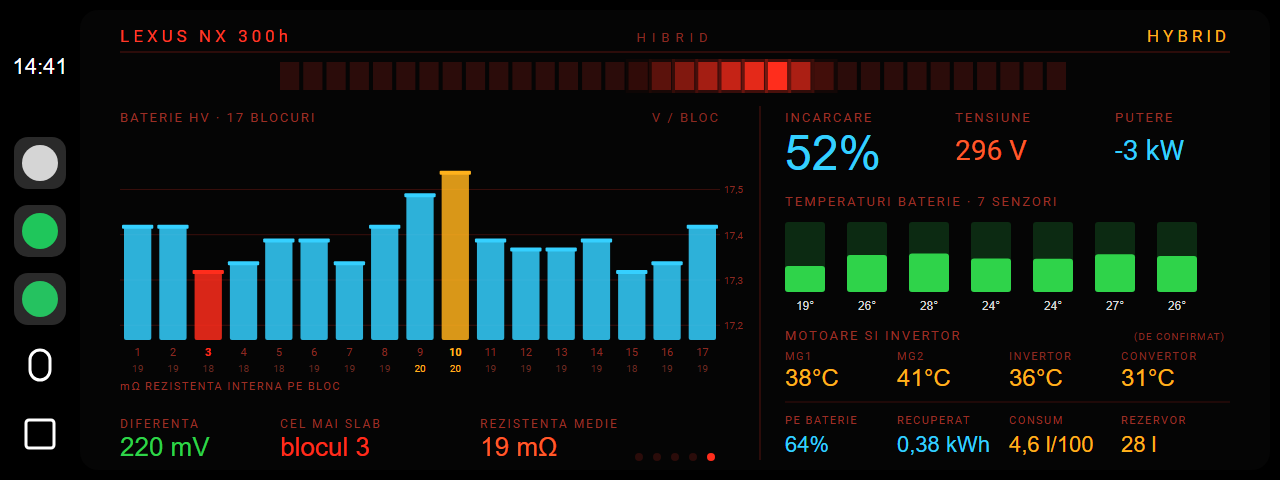
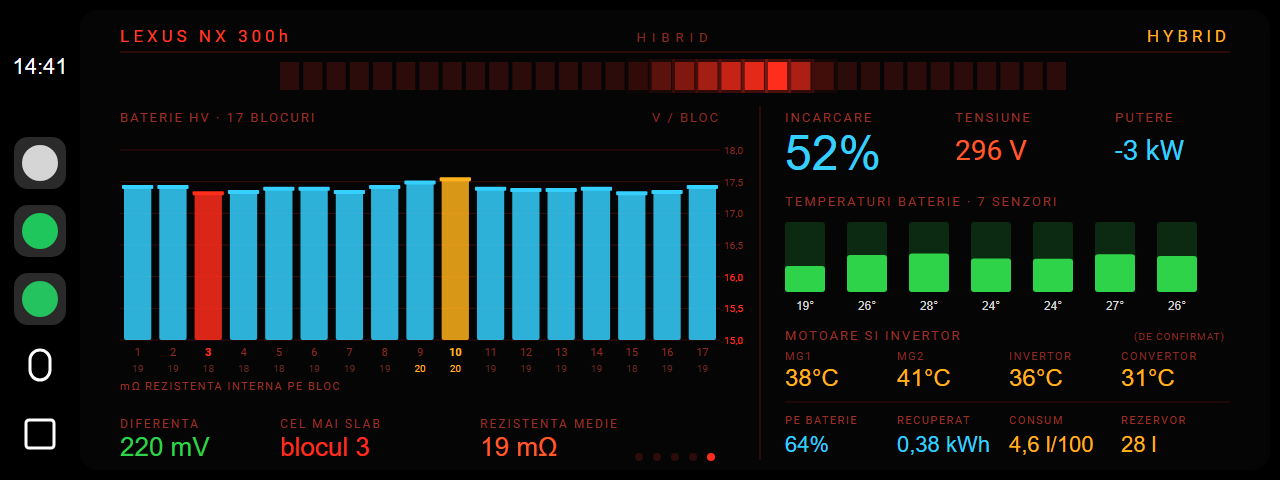
Ecranul hibrid pe scara 15-18 V; planul de confirmare KITT / Dr Prius

diff --git a/docs/macheta-ecrane-2-3.html b/docs/macheta-ecrane-2-3.html
@@ -327,9 +327,10 @@ if(ECRAN==='hibrid'){
  // --- stanga: cele 17 blocuri ale bateriei -------------------------------
  t(40,112,13,LAB,'BATERIE HV · 17 BLOCURI','start',2);
  t(640,112,13,RS,'V / BLOC','end',2);
- const X0=40,X1=640,YB=330,H=190,pas=(X1-X0)/17,jos=vmin-0.15,sus=vmax+0.05;
+ // scara fixa 15-18 V: un bloc slabit (sub 16 V) trebuie sa se vada cazut, nu intins
+ const X0=40,X1=640,YB=330,H=190,pas=(X1-X0)/17,jos=15,sus=18;
  // liniile de reper
- for(const v of [17.2,17.3,17.4,17.5]){const y=YB-(v-jos)/(sus-jos)*H;if(y>YB-H-5&&y<YB){ln(X0,y,X1,y,LINE,1);t(X1+4,y+4,10,RS,v.toFixed(1).replace('.',','),'start')}}
+ for(const v of [15,15.5,16,16.5,17,17.5,18]){const y=YB-(v-jos)/(sus-jos)*H;if(y>=YB-H-1&&y<=YB+1){ln(X0,y,X1,y,LINE,1);t(X1+4,y+4,10,v<=16?RED:RS,v.toFixed(1).replace('.',','),'start')}}
  V.forEach((v,i)=>{
   const h=(v-jos)/(sus-jos)*H,x=X0+i*pas+4,w=pas-8;
   const c=i===imin?RED:(i===imax?AMB:CY);

diff --git a/docs/explorare/plan-confirmare-drprius.md b/docs/explorare/plan-confirmare-drprius.md
@@ -1,0 +1,47 @@
+# Confirmarea datelor bateriei: KITT, apoi Dr Prius
+
+Scopul: să știm sigur că ce citește KITT din calculatorul hibrid (724) e același
+lucru cu ce arată Dr Prius, înainte să le punem pe ecranul HIBRID.
+
+## Ce comparăm
+
+| Ce | KITT (bloc, formulă propusă) | Dr Prius (coloana din jurnal) |
+|---|---|---|
+| tensiunile celor 17 blocuri | 2181, 2 octeți × 79,99 / 65535 V | `Vol#1` … `Vol#17` |
+| rezistențele interne | 2195, 1 octet, mΩ | `IR#1` … `IR#17` |
+| temperaturile bateriei | 2187, 7 valori, 2 octeți × 255,9 / 65535 − 50 °C | `Batt Temp#1..3` (doar 3) |
+| încărcarea | 015B la 7E2, × 100 / 255 | `SOC(%)` |
+| curentul | 019A la 7E2 | `Current(Amp)` |
+| limitele de putere | necunoscut încă (căutăm în 2101, 2146, 214C) | `Charge Limit(HP)`, `Discharge Limit(HP)` |
+
+Pe 14.11 Dr Prius arăta IR 22–23, iar KITT a citit pe 18.11 valori 0x12–0x14
+(18–20). Ori formula e alta (de pildă × 1,2), ori bateria era mai caldă. Proba lămurește.
+
+## Cum se face
+
+Condițiile trebuie să fie **aceleași** pentru amândouă, pentru că tensiunea unui bloc
+se schimbă cu încărcarea și cu sarcina:
+
+1. Mașina pe loc, frâna de mână trasă, **READY**, clima și farurile oprite.
+2. Așteaptă să se oprească motorul termic (dacă pornește să încarce, mai aștepți).
+3. Pe telefon, în KITT: **„Probă baterie”** (butonul nou). Citește 2 minute, la 2 secunde,
+   numai blocurile de mai sus, și scrie fișierul `KittDash-proba-baterie-….txt` în Download.
+4. Când KITT spune „gata”, apasă **Oprește** în KITT (adaptorul ține o singură legătură).
+5. Pornește Dr Prius, intră pe ecranul bateriei și **pornește jurnalul**. Lasă-l 2 minute.
+6. Oprește jurnalul Dr Prius și exportă `BatteryMonitorLog.csv` în Download.
+7. Repetă o dată, invers (Dr Prius întâi, apoi KITT), ca să vedem dacă ordinea contează.
+8. Legi telefonul; iau fișierele și rulez comparația.
+
+Totul durează cam 10 minute.
+
+## Ce înseamnă „confirmat”
+
+- **tensiuni**: același bloc e cel mai slab și același e cel mai tare; diferența pe bloc
+  sub 0,05 V, cu motorul oprit;
+- **rezistențe**: aceeași ordine a blocurilor; o formulă unică pentru toate 17;
+- **temperaturi**: trei din cele șapte valori KITT se potrivesc cu cele trei Dr Prius
+  la ±0,5 °C. Celelalte patru rămân „alți senzori” (aerul de răcire, probabil);
+- **limitele de putere**: găsim octeții care dau 32 și 29 CP; dacă da, ele devin
+  capetele barei de putere.
+
+Ce nu trece rămâne pe ecran marcat „de confirmat” sau nu apare deloc.
